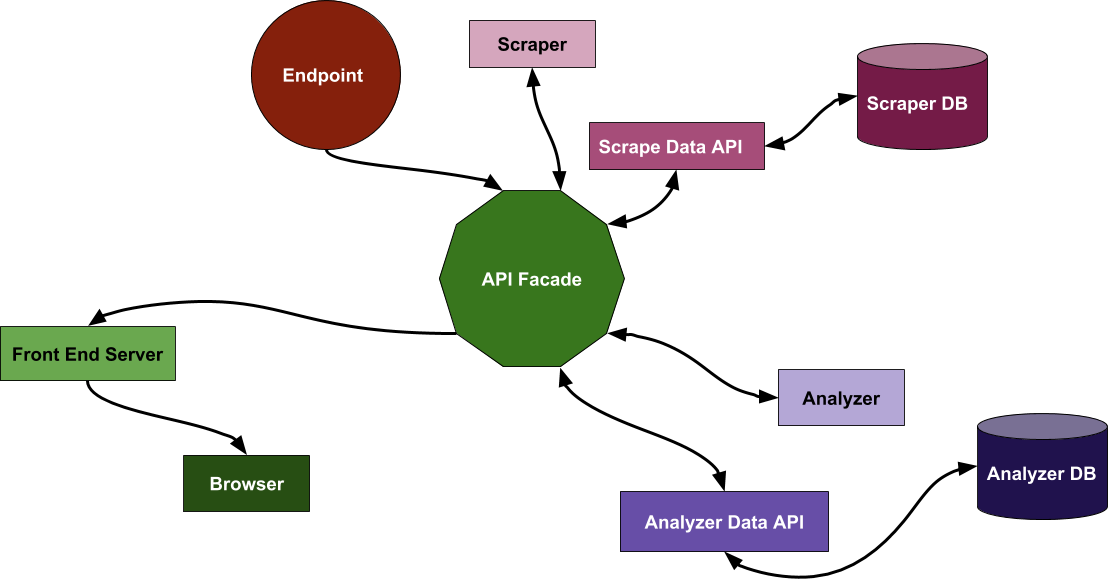
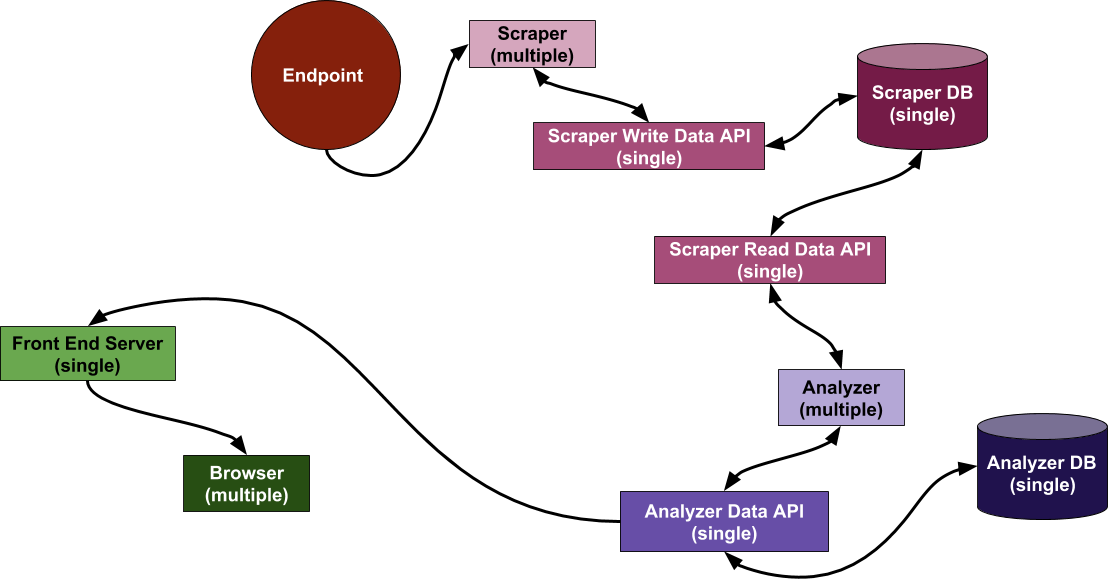
Modify architecture

diff --git a/README.md b/README.md
@@ -1,2 +1,11 @@
 # DataFlow
 ![dataFlow](orchestration.png)
+1. **Scraper** - multiple with different IPs to avoid getting blocked by **Endpoint**
+1. **Scraper Write Data API** - single in order to be able to determine local memory if the data to write is duplicate. If multiple instances are required, determination of duplicity may be done through database query.
+1. **Scraper DB** - single in order to avoid inconsistencies. It will be an in-memory cache and have memory limit and timeout.
+1. **Scraper Read Data API** - single since read request frequency should not be overhealming. Can be multiple if required. It is separate from **Scraper Write Data API** because it may have to be multiple, while **Scraper Write Data API** remains single.
+1. **Analyzer** - multiple spark workers.
+1. **Analyzer data API** - single, but can be scaled up to multiple, if required.
+1. **Analyzer DB** - single, but can be scaled up to multiple, if required.
+1. **Front End Server** - single, but can be scaled up to multiple, if required.
+1. **Browser** - multiple for trivial reasons.
